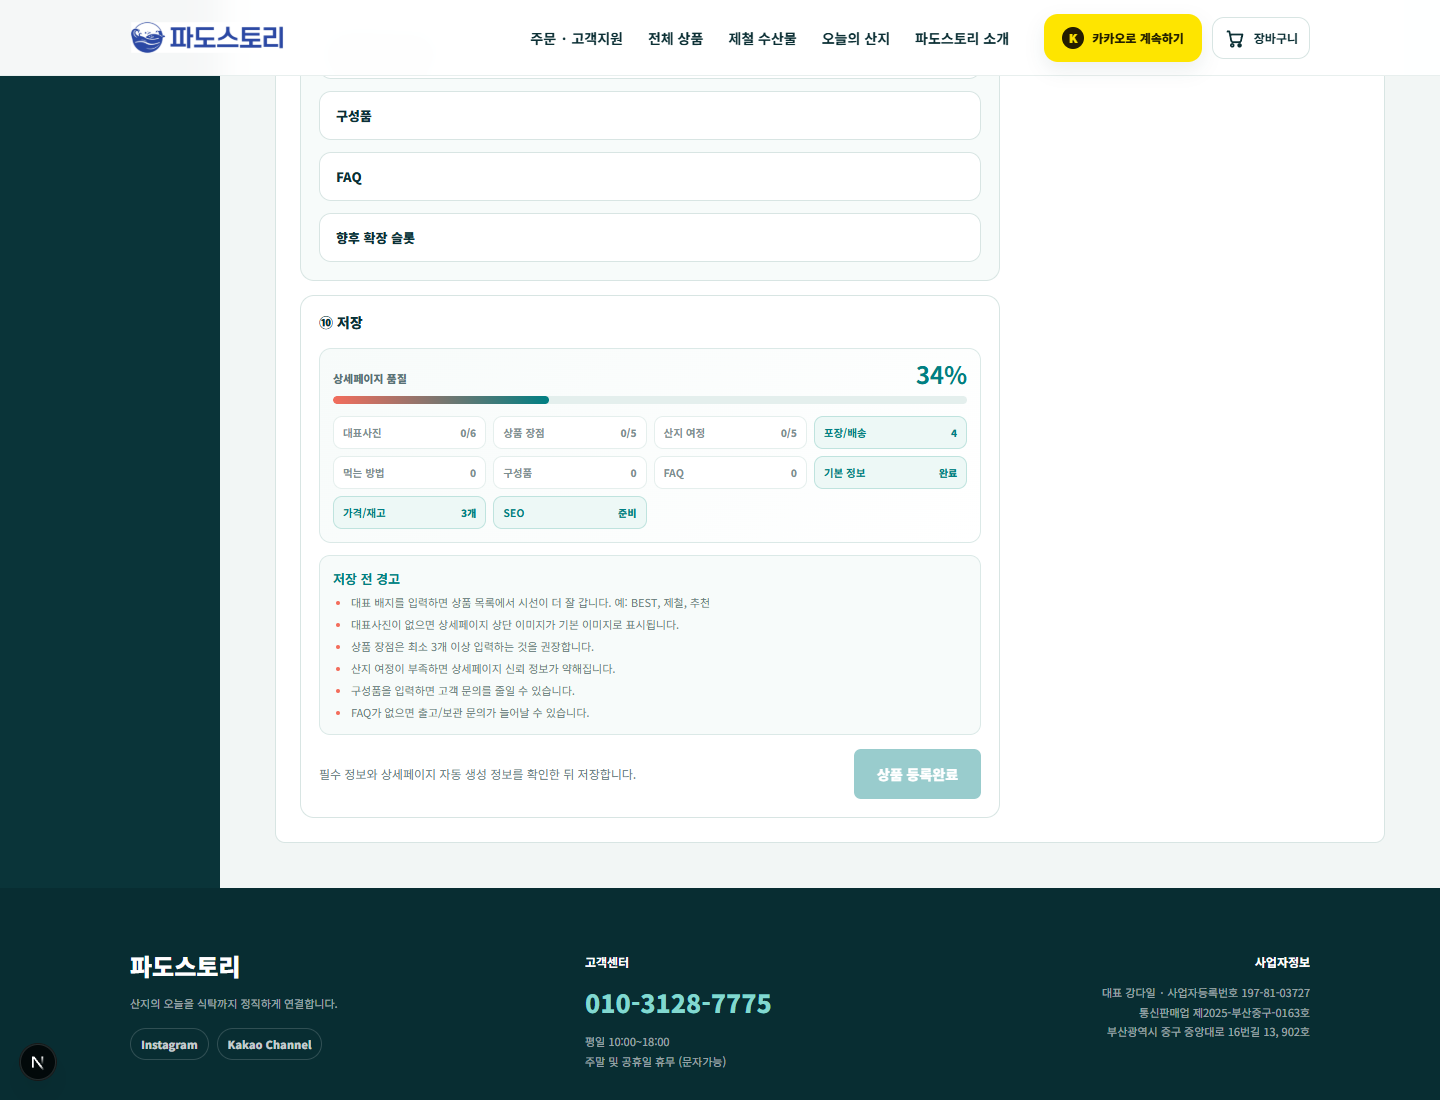
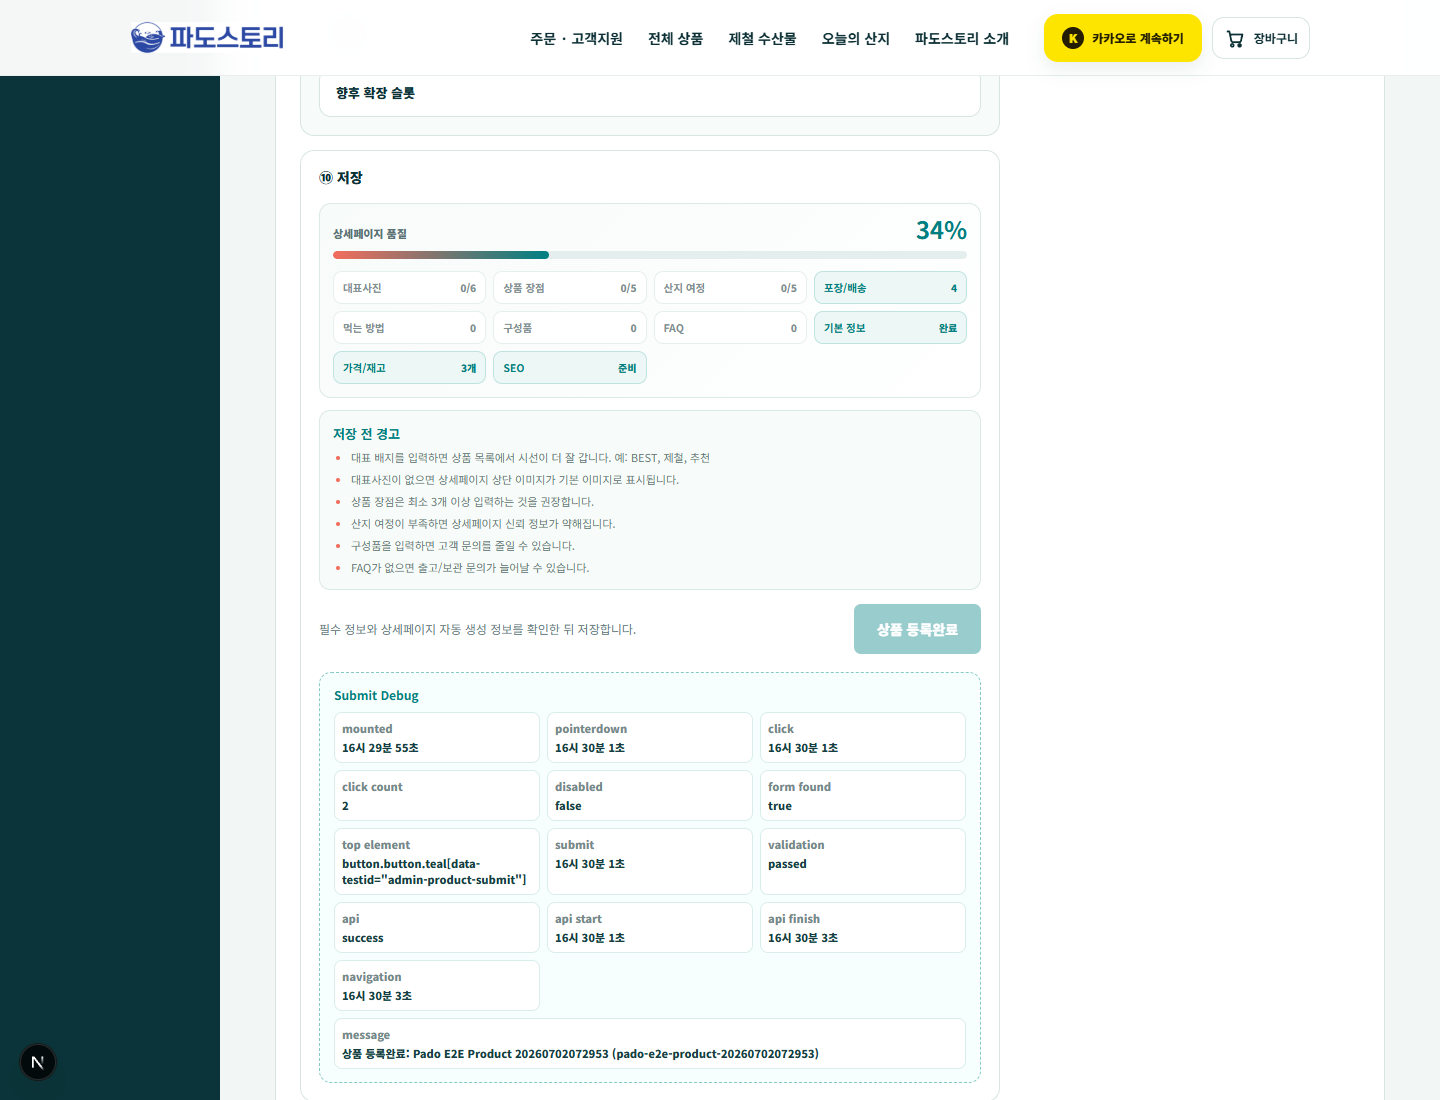
Add admin submit diagnostics

Changed region(s): [[0.0938, 0.1545, 1.0, 1.0], [0.5938, 0.5255, 0.6875, 0.6182], [0.2188, 0.0618, 0.3125, 0.1236]]

diff --git a/components/admin/AdminProductBuilder.tsx b/components/admin/AdminProductBuilder.tsx
@@ -1,7 +1,7 @@
 "use client";
 
 import { useEffect, useMemo, useRef, useState } from "react";
-import type { FormEvent, KeyboardEvent, MouseEvent } from "react";
+import type { FormEvent, KeyboardEvent, MouseEvent, PointerEvent } from "react";
 import { ProductDetailEditor } from "@/components/admin/ProductDetailEditor";
 import { ProductDetailPreview } from "@/components/admin/ProductDetailPreview";
 import { generateProductDescription, generateProductDetailDraft } from "@/lib/admin/ai-product-drafts";
@@ -45,6 +45,23 @@ type ValidationIssue = {
   label: string;
   message: string;
   section: "basic" | "options" | "detail";
+};
+
+type SubmitDebugState = {
+  mountedAt: string;
+  lastPointerDownAt?: string;
+  lastClickAt?: string;
+  clickCount: number;
+  formFound?: boolean;
+  buttonDisabled?: boolean;
+  topElementAtButton?: string;
+  submitStartedAt?: string;
+  validationStatus?: string;
+  apiStatus?: string;
+  apiStartedAt?: string;
+  apiFinishedAt?: string;
+  apiMessage?: string;
+  navigationScheduledAt?: string;
 };
 
 function validateProductPayload(payload: Pick<AdminProductBuilderPayload, "form" | "options">): ValidationIssue[] {
@@ -114,6 +131,19 @@ export const emptyProductForm: AdminProductFormState = {
 
 export const defaultProductOptions: AdminProductOptionForm[] = [{ name: "기본 옵션", priceDelta: "0", stock: "30" }];
 
+function debugTime() {
+  return new Date().toLocaleTimeString("ko-KR", { hour12: false });
+}
+
+function describeElement(element: Element | null) {
+  if (!element) return "none";
+  const htmlElement = element as HTMLElement;
+  const id = htmlElement.id ? `#${htmlElement.id}` : "";
+  const classes = typeof htmlElement.className === "string" && htmlElement.className ? `.${htmlElement.className.trim().replace(/\s+/g, ".")}` : "";
+  const testId = htmlElement.dataset?.testid ? `[data-testid="${htmlElement.dataset.testid}"]` : "";
+  return `${element.tagName.toLowerCase()}${id}${classes}${testId}`;
+}
+
 export function AdminProductBuilder({
   title,
   initialMessage,
@@ -139,9 +169,17 @@ export function AdminProductBuilder({
   const [draftStatus, setDraftStatus] = useState("");
   const [toastMessage, setToastMessage] = useState("");
   const [draftReady, setDraftReady] = useState(!draftStorageKey);
+  const [submitDebug, setSubmitDebug] = useState<SubmitDebugState>({ mountedAt: debugTime(), clickCount: 0 });
   const firstInvalidRef = useRef<HTMLInputElement | HTMLTextAreaElement | null>(null);
+  const showSubmitDebug = process.env.NODE_ENV !== "production";
+
+  const updateSubmitDebug = (patch: Partial<SubmitDebugState>) => {
+    if (!showSubmitDebug) return;
+    setSubmitDebug((current) => ({ ...current, ...patch }));
+  };
 
   useEffect(() => {
+    updateSubmitDebug({ mountedAt: debugTime(), apiStatus: "hydrated" });
     if (!draftStorageKey) return;
 
     try {
@@ -382,7 +420,11 @@ export function AdminProductBuilder({
   };
 
   const saveProduct = async (formElement: HTMLFormElement) => {
-    if (saving) return;
+    if (saving) {
+      updateSubmitDebug({ apiStatus: "ignored: saving", apiMessage: "saveProduct ignored because saving=true" });
+      return;
+    }
+    updateSubmitDebug({ submitStartedAt: debugTime(), validationStatus: "running", apiStatus: "not-started", apiMessage: "" });
     firstInvalidRef.current = null;
     const formData = new FormData(formElement);
     const submittedForm: AdminProductFormState = {
@@ -406,6 +448,7 @@ export function AdminProductBuilder({
 
     if (submitBlockingIssues.length > 0) {
       const firstIssue = submitBlockingIssues[0];
+      updateSubmitDebug({ validationStatus: `blocked: ${firstIssue.section}`, apiStatus: "not-started", apiMessage: firstIssue.message });
       setMessage(`등록 차단: ${firstIssue.message}`);
       setToastMessage("필수 입력 항목이 부족합니다.");
       window.setTimeout(() => setToastMessage(""), 2600);
@@ -422,15 +465,22 @@ export function AdminProductBuilder({
     setSaveCompleted(false);
     setMessage("저장하는 중입니다...");
     setToastMessage(savingLabel);
+    updateSubmitDebug({ validationStatus: "passed", apiStatus: "requesting", apiStartedAt: debugTime() });
 
     let result: SubmitResult;
     try {
       result = await onSubmit({ form: submittedForm, options: submittedOptions, detailJson });
+      updateSubmitDebug({
+        apiStatus: result.ok ? "success" : "failed",
+        apiFinishedAt: debugTime(),
+        apiMessage: result.message ?? (result.ok ? "ok" : "failed")
+      });
     } catch (error) {
       result = {
         ok: false,
         message: error instanceof Error ? error.message : "네트워크 또는 브라우저 오류로 저장에 실패했습니다."
       };
+      updateSubmitDebug({ apiStatus: "exception", apiFinishedAt: debugTime(), apiMessage: result.message });
     }
 
     if (!result.ok) {
@@ -461,17 +511,45 @@ export function AdminProductBuilder({
     setSaveCompleted(true);
     window.setTimeout(() => setToastMessage(""), 2800);
     setSaving(false);
+    updateSubmitDebug({ navigationScheduledAt: debugTime(), apiMessage: result.message ?? successMessage });
     await onSuccess?.(result);
   };
 
   const submit = async (event: FormEvent<HTMLFormElement>) => {
     event.preventDefault();
+    updateSubmitDebug({ submitStartedAt: debugTime(), apiMessage: "form submit event fired" });
     await saveProduct(event.currentTarget);
+  };
+
+  const recordPointerDown = (event: PointerEvent<HTMLButtonElement>) => {
+    const rect = event.currentTarget.getBoundingClientRect();
+    const topElement = document.elementFromPoint(rect.left + rect.width / 2, rect.top + rect.height / 2);
+    updateSubmitDebug({
+      lastPointerDownAt: debugTime(),
+      buttonDisabled: event.currentTarget.disabled,
+      topElementAtButton: describeElement(topElement)
+    });
   };
 
   const clickSave = async (event: MouseEvent<HTMLButtonElement>) => {
     event.preventDefault();
     const formElement = event.currentTarget.form;
+    const rect = event.currentTarget.getBoundingClientRect();
+    const topElement = document.elementFromPoint(rect.left + rect.width / 2, rect.top + rect.height / 2);
+    updateSubmitDebug({
+      lastClickAt: debugTime(),
+      clickCount: submitDebug.clickCount + 1,
+      formFound: Boolean(formElement),
+      buttonDisabled: event.currentTarget.disabled,
+      topElementAtButton: describeElement(topElement),
+      apiMessage: "button click handler fired"
+    });
+    console.info("[PADO_ADMIN_SUBMIT_DEBUG]", {
+      at: debugTime(),
+      formFound: Boolean(formElement),
+      disabled: event.currentTarget.disabled,
+      topElementAtButton: describeElement(topElement)
+    });
     if (!formElement) {
       setMessage("저장 실패: 상품 등록 폼을 찾지 못했습니다. 페이지를 새로고침한 뒤 다시 시도해주세요.");
       return;
@@ -649,11 +727,33 @@ export function AdminProductBuilder({
                   aria-busy={saving}
                   data-testid="admin-product-submit"
                   data-save-state={saving ? "saving" : saveCompleted ? "completed" : "idle"}
+                  onPointerDown={recordPointerDown}
                   onClick={clickSave}
                 >
                   {saving ? savingLabel : saveCompleted ? "상품 등록완료" : submitLabel}
                 </button>
               </div>
+              {showSubmitDebug && (
+                <div className="admin-submit-debug" data-testid="admin-submit-debug" aria-live="polite">
+                  <strong>Submit Debug</strong>
+                  <dl>
+                    <div><dt>mounted</dt><dd>{submitDebug.mountedAt}</dd></div>
+                    <div><dt>pointerdown</dt><dd>{submitDebug.lastPointerDownAt ?? "-"}</dd></div>
+                    <div><dt>click</dt><dd>{submitDebug.lastClickAt ?? "-"}</dd></div>
+                    <div><dt>click count</dt><dd>{submitDebug.clickCount}</dd></div>
+                    <div><dt>disabled</dt><dd>{String(submitDebug.buttonDisabled ?? false)}</dd></div>
+                    <div><dt>form found</dt><dd>{String(submitDebug.formFound ?? false)}</dd></div>
+                    <div><dt>top element</dt><dd>{submitDebug.topElementAtButton ?? "-"}</dd></div>
+                    <div><dt>submit</dt><dd>{submitDebug.submitStartedAt ?? "-"}</dd></div>
+                    <div><dt>validation</dt><dd>{submitDebug.validationStatus ?? "-"}</dd></div>
+                    <div><dt>api</dt><dd>{submitDebug.apiStatus ?? "-"}</dd></div>
+                    <div><dt>api start</dt><dd>{submitDebug.apiStartedAt ?? "-"}</dd></div>
+                    <div><dt>api finish</dt><dd>{submitDebug.apiFinishedAt ?? "-"}</dd></div>
+                    <div><dt>navigation</dt><dd>{submitDebug.navigationScheduledAt ?? "-"}</dd></div>
+                    <div className="wide"><dt>message</dt><dd>{submitDebug.apiMessage ?? "-"}</dd></div>
+                  </dl>
+                </div>
+              )}
             </details>
           </div>
 

diff --git a/app/globals.css b/app/globals.css
@@ -261,3 +261,4 @@
 /* Admin list empty state */
 .admin-empty-filter{display:grid;justify-items:center;gap:8px;padding:34px 16px;border:1px dashed #dbe9e7;border-radius:12px;background:#f7fbfa;text-align:center}.admin-empty-filter strong{color:var(--teal);font-size:14px}.admin-empty-filter span{color:var(--muted);font-size:12px}.admin-empty-filter button{border:1px solid var(--teal);border-radius:999px;background:#fff;color:var(--teal);padding:8px 12px;font-size:11px;font-weight:900}
 @media(max-width:700px){.product-admin-table td.admin-empty-filter-cell{display:block}.product-admin-table td.admin-empty-filter-cell:before{content:""}.admin-empty-filter{padding:28px 12px}.admin-empty-filter button{width:100%;min-height:38px}}
+.admin-submit-debug{margin:0 18px 18px;padding:13px 14px;border:1px dashed #87c9c4;border-radius:12px;background:#f6fffd;color:#173f43;font-size:11px}.admin-submit-debug strong{display:block;margin-bottom:9px;color:var(--teal);font-size:12px}.admin-submit-debug dl{display:grid;grid-template-columns:repeat(3,minmax(0,1fr));gap:7px;margin:0}.admin-submit-debug div{min-width:0;border:1px solid #d9eeeb;border-radius:8px;background:#fff;padding:7px}.admin-submit-debug div.wide{grid-column:1/-1}.admin-submit-debug dt{color:#73898a;font-weight:900}.admin-submit-debug dd{margin:3px 0 0;overflow-wrap:anywhere;font-weight:800}

diff --git a/TEST_REPORT.md b/TEST_REPORT.md
@@ -774,3 +774,45 @@
 - 이전 localhost 종료 원인은 검증용 임시 서버를 명령 내부에서 실행하고 종료 시 정리한 흐름이었습니다.
 - 작업 종료 전 `dev:ensure`를 실행하도록 AGENTS.md 규칙을 추가했습니다.
 - 샌드박스 하위 프로세스 정리 이슈를 확인하여, 최종 테스트용 dev server는 외부 실행 승인 흐름에서 유지되도록 검증했습니다.
+## 2026-07-02 상품 등록 버튼 실제 Edge 단계별 진단
+### 검증 순서
+
+1. 실제 버튼 DOM 존재 확인
+2. 버튼 disabled 상태 확인
+3. 버튼 위 투명 overlay 여부 확인
+4. pointerdown/click 이벤트 발생 확인
+5. React click handler 및 form 연결 확인
+6. validation 통과 확인
+7. POST `/api/admin/products` Network 요청 확인
+8. API 200 응답 body 확인
+9. 버튼 상태 `상품 등록하기 -> 저장 중... -> 상품 등록완료` 확인
+10. `/admin/products` 이동 및 등록 상품 목록 표시 확인
+11. `/products/{english-slug}` 상세페이지 200 확인
+
+### 결과
+
+- DOM: 존재
+- disabled: false
+- pointer-events: auto
+- overlay: 없음, `elementFromPoint`가 저장 버튼 자신을 반환
+- click event: 발생
+- form found: true
+- validation: passed
+- API: `/api/admin/products` POST 200
+- button transition: `상품 등록하기 -> 저장 중... -> 상품 등록완료`
+- product list: 등록 상품 표시
+- detail page: 200
+- `pnpm run build`: 성공
+- `pnpm run verify:admin`: 성공
+
+### 캡처
+
+- `screenshots/admin-submit-diagnose-before-click.png`
+- `screenshots/admin-submit-diagnose-after-click.png`
+- `screenshots/admin-submit-diagnose-completed.png`
+- `screenshots/admin-submit-diagnose-products.png`
+
+### 판단
+
+- 현재 최신 코드/새로고침된 Edge 기준으로는 클라이언트 이벤트와 API 저장 흐름이 정상 동작합니다.
+- 사용자 브라우저에서 계속 무반응이면 오래된 번들/탭 상태 가능성이 높으므로, `/admin/new`에서 강력 새로고침 후 하단 `Submit Debug` 패널의 pointerdown/click 값이 바뀌는지 확인하면 원인을 즉시 분리할 수 있습니다.

diff --git a/WORKLOG.md b/WORKLOG.md
@@ -733,3 +733,21 @@
 - `http://localhost:3000/admin/new` 307 확인
 - `pnpm run build` 성공
 - build 후 `pnpm run dev:ensure` health 200 확인
+## 2026-07-02 상품 등록 버튼 단계별 진단 UI 추가
+### 완료 작업
+
+- `/admin/new` 저장 영역에 개발 모드 전용 `Submit Debug` 패널을 추가했습니다.
+- 버튼 `pointerdown`, `click`, form 연결 여부, disabled 상태, 버튼 위 최상단 DOM, validation, API 요청/응답, navigation 예약 시간을 화면에 표시하도록 했습니다.
+- `scripts/diagnose-admin-submit.mjs`와 `diagnose:admin-submit` 명령을 추가해 실제 Edge 브라우저에서 좌표 클릭 기준으로 DOM/overlay/click/submit/network를 순서대로 진단하도록 했습니다.
+- 실제 Edge 진단 결과 버튼 DOM 존재, disabled false, overlay 없음, click handler 실행, POST `/api/admin/products` 200, 목록 표시, 상세페이지 200을 확인했습니다.
+
+### 검증
+
+- `pnpm run diagnose:admin-submit` 성공
+- `pnpm run build` 성공
+- `pnpm run verify:admin` 성공
+- 진단 캡처 생성:
+  - `screenshots/admin-submit-diagnose-before-click.png`
+  - `screenshots/admin-submit-diagnose-after-click.png`
+  - `screenshots/admin-submit-diagnose-completed.png`
+  - `screenshots/admin-submit-diagnose-products.png`
